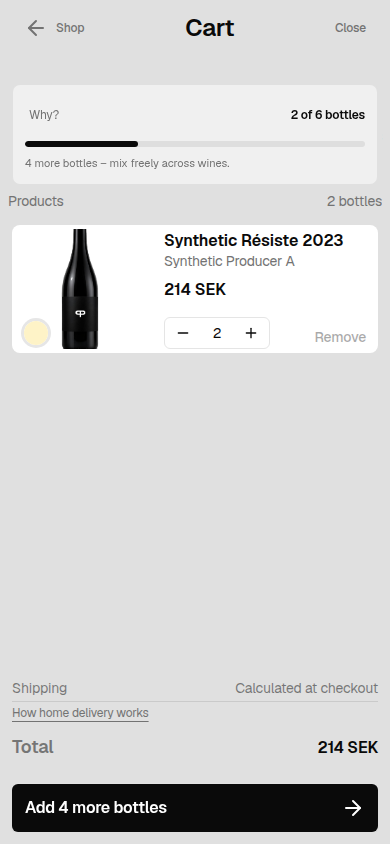
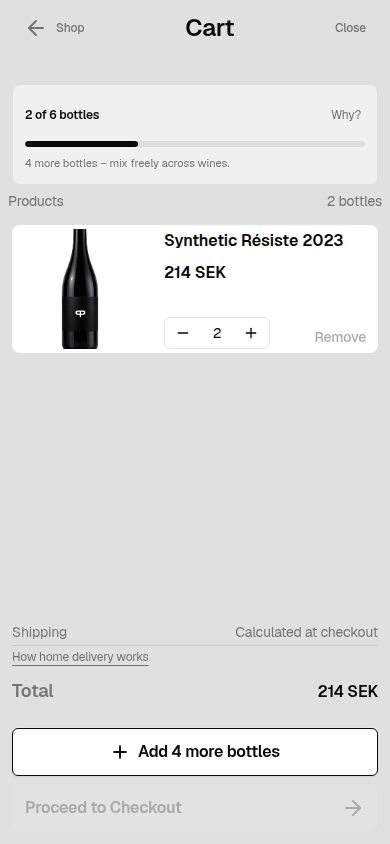
[agent] Cart v3 shots: outline add CTA + locked checkout
SV/EN cart 2/6 and 6/6 at 390 and 1440 for point-3 review.

diff --git a/.review-shots/pr212-v3/copy-diff.md b/.review-shots/pr212-v3/copy-diff.md
@@ -22,8 +22,8 @@ Dirty Wine keeps Reservera via new key `shop.reserveDirty`.
 | `shop.reserveDirty` *(new)* | — | Reservera | — | Reserve |
 | `shop.buy` | Köp | Köp *(unchanged)* | Buy | Buy *(unchanged)* |
 | `cart.bottlesCount` *(new)* | — | `{count, plural, one {# flaska} other {# flaskor}}` | — | `{count, plural, one {# bottle} other {# bottles}}` |
-| `cart.addMoreBottlesShortCta` *(new)* | — | Lägg till {needed} flaskor till | — | Add {needed} more bottles |
-| `cart.needMoreMixHint` *(new)* | — | {needed} flaskor till – blanda fritt mellan vinerna. | — | {needed} more bottles – mix freely across wines. |
+| `cart.addMoreBottlesOutlineCta` *(new)* | — | `{needed, plural, one {+ Lägg till 1 flaska till} other {+ Lägg till # flaskor till}}` | — | `{needed, plural, one {+ Add 1 more bottle} other {+ Add # more bottles}}` |
+| `cart.needMoreMixHint` *(new)* | — | plural: `1 flaska till – …` / `# flaskor till – …` | — | plural: `1 more bottle – …` / `# more bottles – …` |
 | `cart.bottleProgressFull` | … – lådan är full | … – lådan är full *(SV unchanged)* | … – the box is full | … – your case is full |
 
 ---
